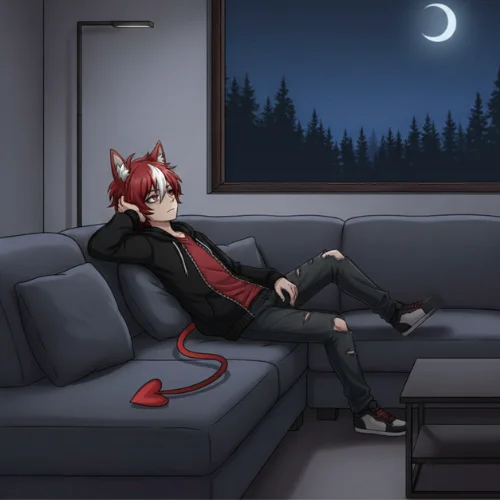
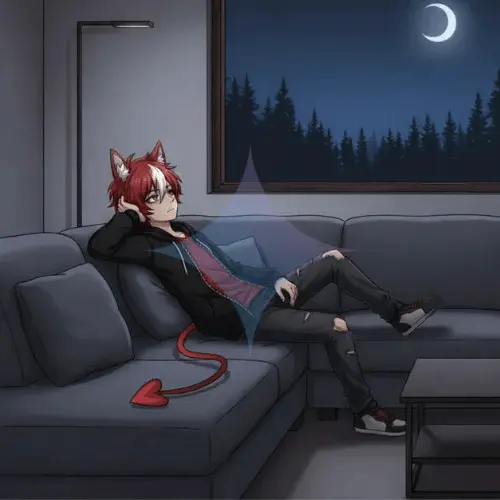
Actualización 2109pm21052026

Changed region(s): [[0.3, 0.42, 0.69, 0.69], [0.45, 0.3, 0.54, 0.39]]

diff --git a/upea-codex-versiones.html b/upea-codex-versiones.html
@@ -333,10 +333,6 @@
             box-shadow: var(--shadow-lg);
         }
 
-        .version-block.latest {
-            border-color: rgba(63,185,80,0.4);
-        }
-
         .version-header {
             background: linear-gradient(135deg, #1c2330, #161b22);
             padding: 18px 24px;
@@ -685,48 +681,46 @@
         <div class="version-list">
 
             <!-- ══════════════════════════════════════════ -->
-            <!--  VERSIÓN 1.1.0 (oculta temporalmente)      -->
+            <!--  VERSIÓN 1.1.0                             -->
             <!-- ══════════════════════════════════════════ -->
-            <div style="display: none;">
-                <div class="version-block latest">
-                    <div class="version-header">
-                        <span class="v-number">v1.1.0</span>
-                        <span class="badge badge-latest">Última versión</span>
-                        <span class="badge badge-stable">Estable</span>
-                        <span class="v-date">2026</span>
+            <div class="version-block latest">
+                <div class="version-header">
+                    <span class="v-number">v1.1.0</span>
+                    <span class="badge badge-latest">Última versión</span>
+                    <span class="badge badge-stable">Estable</span>
+                    <span class="v-date">21 de Mayo de 2026 (20:28 UTC+2)</span>
+                </div>
+                <div class="sha-section">
+                    <h4>🔒 Hashes SHA-256 — Verificación de integridad</h4>
+                    <div class="sha-grid">
+                        <div class="sha-row"><span class="sha-label">Windows (ES)</span><code class="sha-value">sha256:1234c9851bfe2811915ec71ed7da44571872d97a680479df98c9ece6a4d49c1a</code></div>
+                        <div class="sha-row"><span class="sha-label">Windows (EN)</span><code class="sha-value">sha256:d9660ff795bc988c6b38810a06792a985211d0016e6b7ecba7cfabcf2e3f56fd</code></div>
+                        <div class="sha-row"><span class="sha-label">Linux (ES)</span><code class="sha-value">sha256:a7a86146dbdd6615e8b257c395790f34e2b586ec815e3e97c093fbef98972304</code></div>
+                        <div class="sha-row"><span class="sha-label">Linux (EN)</span><code class="sha-value">sha256:666152352dd8aa8fceb13f693b74df4fb7adfffeaf3697a37639010c27cc152b</code></div>
+                        <div class="sha-row"><span class="sha-label">macOS (ES)</span><code class="sha-value">sha256:98bfcf8d75bf777dd7f3f02c111407d3c9da22952e1855fdddafea1aef575c27</code></div>
+                        <div class="sha-row"><span class="sha-label">macOS (EN)</span><code class="sha-value">sha256:d43eb93e7279bc6c05b0f07acafb60173c6e41f760b2dd28498357766c177ff1</code></div>
                     </div>
-                    <div class="sha-section">
-                        <h4>🔒 Hashes SHA-256 — Verificación de integridad</h4>
-                        <div class="sha-grid">
-                            <div class="sha-row"><span class="sha-label">Windows (ES)</span><code class="sha-value">PENDIENTE — Coloca aquí el SHA-256 del instalador Windows ES v1.1.0</code></div>
-                            <div class="sha-row"><span class="sha-label">Windows (EN)</span><code class="sha-value">PENDIENTE — Coloca aquí el SHA-256 del instalador Windows EN v1.1.0</code></div>
-                            <div class="sha-row"><span class="sha-label">Linux (ES)</span><code class="sha-value">PENDIENTE — Coloca aquí el SHA-256 del paquete Linux ES v1.1.0</code></div>
-                            <div class="sha-row"><span class="sha-label">Linux (EN)</span><code class="sha-value">PENDIENTE — Coloca aquí el SHA-256 del paquete Linux EN v1.1.0</code></div>
-                            <div class="sha-row"><span class="sha-label">macOS (ES)</span><code class="sha-value">PENDIENTE — Coloca aquí el SHA-256 del .dmg macOS ES v1.1.0</code></div>
-                            <div class="sha-row"><span class="sha-label">macOS (EN)</span><code class="sha-value">PENDIENTE — Coloca aquí el SHA-256 del .dmg macOS EN v1.1.0</code></div>
+                </div>
+                <div class="download-section">
+                    <h4>⬇ Descargas — v1.1.0</h4>
+                    <div class="lang-group">
+                        <div class="lang-label">Español (ES)</div>
+                        <div class="download-buttons">
+                            <a href="https://github.com/upea-corporation/upea-codex-download/releases/download/v1.1.0/UPEA.CODEX.Setup.1.1.0.-.ESPANOL.exe" download class="dl-btn win"><svg viewBox="0 0 24 24" fill="currentColor"><path d="M0 3.449L9.75 2.1v9.451H0m10.949-9.602L24 0v11.4H10.949M0 12.6h9.75v9.451L0 20.699M10.949 12.6H24V24l-13.051-1.801"/></svg>Windows</a>
+                            <a href="https://github.com/upea-corporation/upea-codex-download/releases/download/v1.1.0/UPEA.CODEX-1.1.0.-.ESPANOL.AppImage" download class="dl-btn linux"><svg viewBox="0 0 24 24" fill="currentColor"><path d="M12.504 0c-.155 0-.315.008-.48.021-4.226.333-3.105 4.807-3.17 6.298-.076 1.092-.3 1.953-1.05 3.02-.885 1.051-2.127 2.75-2.716 4.521-.278.832-.41 1.684-.287 2.489.121.779.454 1.493.85 2.153.396.659.85 1.266 1.34 1.818.232.264.467.527.695.792.5.582 1.084 1.162 1.657 1.713 1.15 1.126 1.677 2.214 1.65 3.219.02.523-.107 1.022-.4 1.499-.15.25-.35.47-.586.636-.19.136-.42.237-.68.279-.7.011-.137.02-.2.02-.41 0-.823-.082-1.19-.232-.37-.15-.7-.38-.964-.68-.51-.594-.72-1.451-.677-2.34.042-.894.286-1.884.658-2.875a19.9 19.9 0 0 1 1.23-2.76 21 21 0 0 0-1.44 2.66c-.427.98-.692 2.042-.716 3.11-.025 1.07.22 2.18.82 3.04.603.862 1.536 1.465 2.559 1.677.503.102 1.028.112 1.55.017.522-.095 1.046-.31 1.507-.66.463-.35.857-.83 1.12-1.396.262-.567.385-1.217.38-1.89.003-1.366-.618-2.688-1.827-3.866-.593-.584-1.189-1.172-1.7-1.76-.252-.293-.497-.59-.73-.89-.468-.6-.86-1.23-1.1-1.9-.243-.673-.3-1.358-.135-2.058.17-.7.545-1.346 1.05-1.888.505-.541 1.098-1.005 1.72-1.41.62-.406 1.273-.765 1.906-1.153.635-.39 1.25-.81 1.806-1.322.557-.512 1.057-1.117 1.384-1.86.328-.742.42-1.612.237-2.53-.184-.918-.63-1.86-1.34-2.668C15.507.806 14.036.108 12.504 0"/></svg>Linux</a>
+                            <a href="https://github.com/upea-corporation/upea-codex-download/releases/download/v1.1.0/UPEA.CODEX-1.1.0.-.ESPANOL.dmg" download class="dl-btn mac"><svg viewBox="0 0 24 24" fill="currentColor"><path d="M12.152 6.896c-.948 0-2.415-1.078-3.96-1.04-2.04.027-3.91 1.183-4.961 3.014-2.117 3.675-.546 9.103 1.519 12.09 1.013 1.454 2.208 3.09 3.792 3.039 1.52-.065 2.09-.987 3.935-.987 1.831 0 2.35.987 3.96.948 1.637-.026 2.676-1.48 3.676-2.948 1.156-1.688 1.636-3.325 1.662-3.415-.039-.013-3.182-1.221-3.22-4.857-.026-3.04 2.48-4.494 2.597-4.559-1.429-2.09-3.623-2.324-4.39-2.376-2-.156-3.675 1.09-4.61 1.09zM15.53 3.83c.843-1.012 1.4-2.427 1.245-3.83-1.207.052-2.662.805-3.532 1.818-.78.896-1.454 2.338-1.273 3.714 1.338.104 2.715-.688 3.559-1.701"/></svg>macOS</a>
                         </div>
                     </div>
-                    <div class="download-section">
-                        <h4>⬇ Descargas — v1.1.0</h4>
-                        <div class="lang-group">
-                            <div class="lang-label">Español (ES)</div>
-                            <div class="download-buttons">
-                                <a href="#" class="dl-btn win"><svg viewBox="0 0 24 24" fill="currentColor"><path d="M0 3.449L9.75 2.1v9.451H0m10.949-9.602L24 0v11.4H10.949M0 12.6h9.75v9.451L0 20.699M10.949 12.6H24V24l-13.051-1.801"/></svg>Windows</a>
-                                <a href="#" class="dl-btn linux"><svg viewBox="0 0 24 24" fill="currentColor"><path d="M12.504 0c-.155 0-.315.008-.48.021-4.226.333-3.105 4.807-3.17 6.298-.076 1.092-.3 1.953-1.05 3.02-.885 1.051-2.127 2.75-2.716 4.521-.278.832-.41 1.684-.287 2.489.121.779.454 1.493.85 2.153.396.659.85 1.266 1.34 1.818.232.264.467.527.695.792.5.582 1.084 1.162 1.657 1.713 1.15 1.126 1.677 2.214 1.65 3.219.02.523-.107 1.022-.4 1.499-.15.25-.35.47-.586.636-.19.136-.42.237-.68.279-.7.011-.137.02-.2.02-.41 0-.823-.082-1.19-.232-.37-.15-.7-.38-.964-.68-.51-.594-.72-1.451-.677-2.34.042-.894.286-1.884.658-2.875a19.9 19.9 0 0 1 1.23-2.76 21 21 0 0 0-1.44 2.66c-.427.98-.692 2.042-.716 3.11-.025 1.07.22 2.18.82 3.04.603.862 1.536 1.465 2.559 1.677.503.102 1.028.112 1.55.017.522-.095 1.046-.31 1.507-.66.463-.35.857-.83 1.12-1.396.262-.567.385-1.217.38-1.89.003-1.366-.618-2.688-1.827-3.866-.593-.584-1.189-1.172-1.7-1.76-.252-.293-.497-.59-.73-.89-.468-.6-.86-1.23-1.1-1.9-.243-.673-.3-1.358-.135-2.058.17-.7.545-1.346 1.05-1.888.505-.541 1.098-1.005 1.72-1.41.62-.406 1.273-.765 1.906-1.153.635-.39 1.25-.81 1.806-1.322.557-.512 1.057-1.117 1.384-1.86.328-.742.42-1.612.237-2.53-.184-.918-.63-1.86-1.34-2.668C15.507.806 14.036.108 12.504 0"/></svg>Linux</a>
-                                <a href="#" class="dl-btn mac"><svg viewBox="0 0 24 24" fill="currentColor"><path d="M12.152 6.896c-.948 0-2.415-1.078-3.96-1.04-2.04.027-3.91 1.183-4.961 3.014-2.117 3.675-.546 9.103 1.519 12.09 1.013 1.454 2.208 3.09 3.792 3.039 1.52-.065 2.09-.987 3.935-.987 1.831 0 2.35.987 3.96.948 1.637-.026 2.676-1.48 3.676-2.948 1.156-1.688 1.636-3.325 1.662-3.415-.039-.013-3.182-1.221-3.22-4.857-.026-3.04 2.48-4.494 2.597-4.559-1.429-2.09-3.623-2.324-4.39-2.376-2-.156-3.675 1.09-4.61 1.09zM15.53 3.83c.843-1.012 1.4-2.427 1.245-3.83-1.207.052-2.662.805-3.532 1.818-.78.896-1.454 2.338-1.273 3.714 1.338.104 2.715-.688 3.559-1.701"/></svg>macOS</a>
-                            </div>
-                        </div>
-                        <div class="lang-group">
-                            <div class="lang-label">English (EN)</div>
-                            <div class="download-buttons">
-                                <a href="#" class="dl-btn win"><svg viewBox="0 0 24 24" fill="currentColor"><path d="M0 3.449L9.75 2.1v9.451H0m10.949-9.602L24 0v11.4H10.949M0 12.6h9.75v9.451L0 20.699M10.949 12.6H24V24l-13.051-1.801"/></svg>Windows</a>
-                                <a href="#" class="dl-btn linux"><svg viewBox="0 0 24 24" fill="currentColor"><path d="M12.504 0c-.155 0-.315.008-.48.021-4.226.333-3.105 4.807-3.17 6.298-.076 1.092-.3 1.953-1.05 3.02-.885 1.051-2.127 2.75-2.716 4.521-.278.832-.41 1.684-.287 2.489.121.779.454 1.493.85 2.153.396.659.85 1.266 1.34 1.818.232.264.467.527.695.792.5.582 1.084 1.162 1.657 1.713 1.15 1.126 1.677 2.214 1.65 3.219.02.523-.107 1.022-.4 1.499-.15.25-.35.47-.586.636-.19.136-.42.237-.68.279-.7.011-.137.02-.2.02-.41 0-.823-.082-1.19-.232-.37-.15-.7-.38-.964-.68-.51-.594-.72-1.451-.677-2.34.042-.894.286-1.884.658-2.875a19.9 19.9 0 0 1 1.23-2.76 21 21 0 0 0-1.44 2.66c-.427.98-.692 2.042-.716 3.11-.025 1.07.22 2.18.82 3.04.603.862 1.536 1.465 2.559 1.677.503.102 1.028.112 1.55.017.522-.095 1.046-.31 1.507-.66.463-.35.857-.83 1.12-1.396.262-.567.385-1.217.38-1.89.003-1.366-.618-2.688-1.827-3.866-.593-.584-1.189-1.172-1.7-1.76-.252-.293-.497-.59-.73-.89-.468-.6-.86-1.23-1.1-1.9-.243-.673-.3-1.358-.135-2.058.17-.7.545-1.346 1.05-1.888.505-.541 1.098-1.005 1.72-1.41.62-.406 1.273-.765 1.906-1.153.635-.39 1.25-.81 1.806-1.322.557-.512 1.057-1.117 1.384-1.86.328-.742.42-1.612.237-2.53-.184-.918-.63-1.86-1.34-2.668C15.507.806 14.036.108 12.504 0"/></svg>Linux</a>
-                                <a href="#" class="dl-btn mac"><svg viewBox="0 0 24 24" fill="currentColor"><path d="M12.152 6.896c-.948 0-2.415-1.078-3.96-1.04-2.04.027-3.91 1.183-4.961 3.014-2.117 3.675-.546 9.103 1.519 12.09 1.013 1.454 2.208 3.09 3.792 3.039 1.52-.065 2.09-.987 3.935-.987 1.831 0 2.35.987 3.96.948 1.637-.026 2.676-1.48 3.676-2.948 1.156-1.688 1.636-3.325 1.662-3.415-.039-.013-3.182-1.221-3.22-4.857-.026-3.04 2.48-4.494 2.597-4.559-1.429-2.09-3.623-2.324-4.39-2.376-2-.156-3.675 1.09-4.61 1.09zM15.53 3.83c.843-1.012 1.4-2.427 1.245-3.83-1.207.052-2.662.805-3.532 1.818-.78.896-1.454 2.338-1.273 3.714 1.338.104 2.715-.688 3.559-1.701"/></svg>macOS</a>
-                            </div>
+                    <div class="lang-group">
+                        <div class="lang-label">English (EN)</div>
+                        <div class="download-buttons">
+                            <a href="https://github.com/upea-corporation/upea-codex-download/releases/download/v1.1.0/UPEA.CODEX.Setup.1.1.0.-.ENGLISH.exe" download class="dl-btn win"><svg viewBox="0 0 24 24" fill="currentColor"><path d="M0 3.449L9.75 2.1v9.451H0m10.949-9.602L24 0v11.4H10.949M0 12.6h9.75v9.451L0 20.699M10.949 12.6H24V24l-13.051-1.801"/></svg>Windows</a>
+                            <a href="https://github.com/upea-corporation/upea-codex-download/releases/download/v1.1.0/UPEA.CODEX-1.1.0.-.ENGLISH.AppImage" download class="dl-btn linux"><svg viewBox="0 0 24 24" fill="currentColor"><path d="M12.504 0c-.155 0-.315.008-.48.021-4.226.333-3.105 4.807-3.17 6.298-.076 1.092-.3 1.953-1.05 3.02-.885 1.051-2.127 2.75-2.716 4.521-.278.832-.41 1.684-.287 2.489.121.779.454 1.493.85 2.153.396.659.85 1.266 1.34 1.818.232.264.467.527.695.792.5.582 1.084 1.162 1.657 1.713 1.15 1.126 1.677 2.214 1.65 3.219.02.523-.107 1.022-.4 1.499-.15.25-.35.47-.586.636-.19.136-.42.237-.68.279-.7.011-.137.02-.2.02-.41 0-.823-.082-1.19-.232-.37-.15-.7-.38-.964-.68-.51-.594-.72-1.451-.677-2.34.042-.894.286-1.884.658-2.875a19.9 19.9 0 0 1 1.23-2.76 21 21 0 0 0-1.44 2.66c-.427.98-.692 2.042-.716 3.11-.025 1.07.22 2.18.82 3.04.603.862 1.536 1.465 2.559 1.677.503.102 1.028.112 1.55.017.522-.095 1.046-.31 1.507-.66.463-.35.857-.83 1.12-1.396.262-.567.385-1.217.38-1.89.003-1.366-.618-2.688-1.827-3.866-.593-.584-1.189-1.172-1.7-1.76-.252-.293-.497-.59-.73-.89-.468-.6-.86-1.23-1.1-1.9-.243-.673-.3-1.358-.135-2.058.17-.7.545-1.346 1.05-1.888.505-.541 1.098-1.005 1.72-1.41.62-.406 1.273-.765 1.906-1.153.635-.39 1.25-.81 1.806-1.322.557-.512 1.057-1.117 1.384-1.86.328-.742.42-1.612.237-2.53-.184-.918-.63-1.86-1.34-2.668C15.507.806 14.036.108 12.504 0"/></svg>Linux</a>
+                            <a href="https://github.com/upea-corporation/upea-codex-download/releases/download/v1.1.0/UPEA.CODEX-1.1.0.-.ENGLISH.dmg" download class="dl-btn mac"><svg viewBox="0 0 24 24" fill="currentColor"><path d="M12.152 6.896c-.948 0-2.415-1.078-3.96-1.04-2.04.027-3.91 1.183-4.961 3.014-2.117 3.675-.546 9.103 1.519 12.09 1.013 1.454 2.208 3.09 3.792 3.039 1.52-.065 2.09-.987 3.935-.987 1.831 0 2.35.987 3.96.948 1.637-.026 2.676-1.48 3.676-2.948 1.156-1.688 1.636-3.325 1.662-3.415-.039-.013-3.182-1.221-3.22-4.857-.026-3.04 2.48-4.494 2.597-4.559-1.429-2.09-3.623-2.324-4.39-2.376-2-.156-3.675 1.09-4.61 1.09zM15.53 3.83c.843-1.012 1.4-2.427 1.245-3.83-1.207.052-2.662.805-3.532 1.818-.78.896-1.454 2.338-1.273 3.714 1.338.104 2.715-.688 3.559-1.701"/></svg>macOS</a>
                         </div>
                     </div>
                 </div>
-            </div><!-- /v1.1.0 oculta -->
+            </div> <!-- /v1.1.0 -->
 
             <!-- ══════════════════════════════════════════ -->
             <!--  VERSIÓN 1.0.0                             -->
@@ -734,7 +728,6 @@
             <div class="version-block">
                 <div class="version-header">
                     <span class="v-number">v1.0.0</span>
-                    <span class="badge badge-latest">Última versión</span>
                     <span class="badge badge-stable">Estable</span>
                     <span class="v-date">28 de Abril de 2026 (14:34 UTC+2)</span>
                 </div>
@@ -840,7 +833,5 @@
             }
         })();
     </script>
-    <!-- FontAwesome para iconos -->
-    <link rel="stylesheet" href="https://cdnjs.cloudflare.com/ajax/libs/font-awesome/6.0.0-beta3/css/all.min.css">
 </body>
 </html>

diff --git a/EN/upea-codex-versions.html b/EN/upea-codex-versions.html
@@ -333,10 +333,6 @@
             box-shadow: var(--shadow-lg);
         }
 
-        .version-block.latest {
-            border-color: rgba(63,185,80,0.4);
-        }
-
         .version-header {
             background: linear-gradient(135deg, #1c2330, #161b22);
             padding: 18px 24px;
@@ -685,47 +681,46 @@
         <div class="version-list">
 
             <!-- ══════════════════════════════════════════ -->
-            <!--  VERSION 1.1.0 (temporarily hidden)        -->
+            <!--  VERSIÓN 1.1.0                             -->
             <!-- ══════════════════════════════════════════ -->
-            <div style="display: none;">
-                <div class="version-block latest">
-                    <div class="version-header">
-                        <span class="v-number">v1.1.0</span>
-                        <span class="badge badge-stable">Stable</span>
-                        <span class="v-date">2026</span>
+            <div class="version-block latest">
+                <div class="version-header">
+                    <span class="v-number">v1.1.0</span>
+                    <span class="badge badge-latest">Latest version</span>
+                    <span class="badge badge-stable">Stable</span>
+                    <span class="v-date">May 21, 2026 (20:28 UTC+2)</span>
+                </div>
+                <div class="sha-section">
+                    <h4>🔒 Hashes SHA-256 — Integrity verification</h4>
+                    <div class="sha-grid">
+                        <div class="sha-row"><span class="sha-label">Windows (ES)</span><code class="sha-value">sha256:1234c9851bfe2811915ec71ed7da44571872d97a680479df98c9ece6a4d49c1a</code></div>
+                        <div class="sha-row"><span class="sha-label">Windows (EN)</span><code class="sha-value">sha256:d9660ff795bc988c6b38810a06792a985211d0016e6b7ecba7cfabcf2e3f56fd</code></div>
+                        <div class="sha-row"><span class="sha-label">Linux (ES)</span><code class="sha-value">sha256:a7a86146dbdd6615e8b257c395790f34e2b586ec815e3e97c093fbef98972304</code></div>
+                        <div class="sha-row"><span class="sha-label">Linux (EN)</span><code class="sha-value">sha256:666152352dd8aa8fceb13f693b74df4fb7adfffeaf3697a37639010c27cc152b</code></div>
+                        <div class="sha-row"><span class="sha-label">macOS (ES)</span><code class="sha-value">sha256:98bfcf8d75bf777dd7f3f02c111407d3c9da22952e1855fdddafea1aef575c27</code></div>
+                        <div class="sha-row"><span class="sha-label">macOS (EN)</span><code class="sha-value">sha256:d43eb93e7279bc6c05b0f07acafb60173c6e41f760b2dd28498357766c177ff1</code></div>
                     </div>
-                    <div class="sha-section">
-                        <h4>🔒 SHA-256 Hashes — Integrity verification</h4>
-                        <div class="sha-grid">
-                            <div class="sha-row"><span class="sha-label">Windows (ES)</span><code class="sha-value">PENDING — Place the SHA-256 of the Windows ES installer v1.1.0 here</code></div>
-                            <div class="sha-row"><span class="sha-label">Windows (EN)</span><code class="sha-value">PENDING — Place the SHA-256 of the Windows EN installer v1.1.0 here</code></div>
-                            <div class="sha-row"><span class="sha-label">Linux (ES)</span><code class="sha-value">PENDING — Place the SHA-256 of the Linux ES package v1.1.0 here</code></div>
-                            <div class="sha-row"><span class="sha-label">Linux (EN)</span><code class="sha-value">PENDING — Place the SHA-256 of the Linux EN package v1.1.0 here</code></div>
-                            <div class="sha-row"><span class="sha-label">macOS (ES)</span><code class="sha-value">PENDING — Place the SHA-256 of the macOS ES .dmg v1.1.0 here</code></div>
-                            <div class="sha-row"><span class="sha-label">macOS (EN)</span><code class="sha-value">PENDING — Place the SHA-256 of the macOS EN .dmg v1.1.0 here</code></div>
+                </div>
+                <div class="download-section">
+                    <h4>⬇ Descargas — v1.1.0</h4>
+                    <div class="lang-group">
+                        <div class="lang-label">Español (ES)</div>
+                        <div class="download-buttons">
+                            <a href="https://github.com/upea-corporation/upea-codex-download/releases/download/v1.1.0/UPEA.CODEX.Setup.1.1.0.-.ESPANOL.exe" download class="dl-btn win"><svg viewBox="0 0 24 24" fill="currentColor"><path d="M0 3.449L9.75 2.1v9.451H0m10.949-9.602L24 0v11.4H10.949M0 12.6h9.75v9.451L0 20.699M10.949 12.6H24V24l-13.051-1.801"/></svg>Windows</a>
+                            <a href="https://github.com/upea-corporation/upea-codex-download/releases/download/v1.1.0/UPEA.CODEX-1.1.0.-.ESPANOL.AppImage" download class="dl-btn linux"><svg viewBox="0 0 24 24" fill="currentColor"><path d="M12.504 0c-.155 0-.315.008-.48.021-4.226.333-3.105 4.807-3.17 6.298-.076 1.092-.3 1.953-1.05 3.02-.885 1.051-2.127 2.75-2.716 4.521-.278.832-.41 1.684-.287 2.489.121.779.454 1.493.85 2.153.396.659.85 1.266 1.34 1.818.232.264.467.527.695.792.5.582 1.084 1.162 1.657 1.713 1.15 1.126 1.677 2.214 1.65 3.219.02.523-.107 1.022-.4 1.499-.15.25-.35.47-.586.636-.19.136-.42.237-.68.279-.7.011-.137.02-.2.02-.41 0-.823-.082-1.19-.232-.37-.15-.7-.38-.964-.68-.51-.594-.72-1.451-.677-2.34.042-.894.286-1.884.658-2.875a19.9 19.9 0 0 1 1.23-2.76 21 21 0 0 0-1.44 2.66c-.427.98-.692 2.042-.716 3.11-.025 1.07.22 2.18.82 3.04.603.862 1.536 1.465 2.559 1.677.503.102 1.028.112 1.55.017.522-.095 1.046-.31 1.507-.66.463-.35.857-.83 1.12-1.396.262-.567.385-1.217.38-1.89.003-1.366-.618-2.688-1.827-3.866-.593-.584-1.189-1.172-1.7-1.76-.252-.293-.497-.59-.73-.89-.468-.6-.86-1.23-1.1-1.9-.243-.673-.3-1.358-.135-2.058.17-.7.545-1.346 1.05-1.888.505-.541 1.098-1.005 1.72-1.41.62-.406 1.273-.765 1.906-1.153.635-.39 1.25-.81 1.806-1.322.557-.512 1.057-1.117 1.384-1.86.328-.742.42-1.612.237-2.53-.184-.918-.63-1.86-1.34-2.668C15.507.806 14.036.108 12.504 0"/></svg>Linux</a>
+                            <a href="https://github.com/upea-corporation/upea-codex-download/releases/download/v1.1.0/UPEA.CODEX-1.1.0.-.ESPANOL.dmg" download class="dl-btn mac"><svg viewBox="0 0 24 24" fill="currentColor"><path d="M12.152 6.896c-.948 0-2.415-1.078-3.96-1.04-2.04.027-3.91 1.183-4.961 3.014-2.117 3.675-.546 9.103 1.519 12.09 1.013 1.454 2.208 3.09 3.792 3.039 1.52-.065 2.09-.987 3.935-.987 1.831 0 2.35.987 3.96.948 1.637-.026 2.676-1.48 3.676-2.948 1.156-1.688 1.636-3.325 1.662-3.415-.039-.013-3.182-1.221-3.22-4.857-.026-3.04 2.48-4.494 2.597-4.559-1.429-2.09-3.623-2.324-4.39-2.376-2-.156-3.675 1.09-4.61 1.09zM15.53 3.83c.843-1.012 1.4-2.427 1.245-3.83-1.207.052-2.662.805-3.532 1.818-.78.896-1.454 2.338-1.273 3.714 1.338.104 2.715-.688 3.559-1.701"/></svg>macOS</a>
                         </div>
                     </div>
-                    <div class="download-section">
-                        <h4>⬇ Downloads — v1.1.0</h4>
-                        <div class="lang-group">
-                            <div class="lang-label">Español (ES)</div>
-                            <div class="download-buttons">
-                                <a href="#" class="dl-btn win"><svg viewBox="0 0 24 24" fill="currentColor"><path d="M0 3.449L9.75 2.1v9.451H0m10.949-9.602L24 0v11.4H10.949M0 12.6h9.75v9.451L0 20.699M10.949 12.6H24V24l-13.051-1.801"/></svg>Windows</a>
-                                <a href="#" class="dl-btn linux"><svg viewBox="0 0 24 24" fill="currentColor"><path d="M12.504 0c-.155 0-.315.008-.48.021-4.226.333-3.105 4.807-3.17 6.298-.076 1.092-.3 1.953-1.05 3.02-.885 1.051-2.127 2.75-2.716 4.521-.278.832-.41 1.684-.287 2.489.121.779.454 1.493.85 2.153.396.659.85 1.266 1.34 1.818.232.264.467.527.695.792.5.582 1.084 1.162 1.657 1.713 1.15 1.126 1.677 2.214 1.65 3.219.02.523-.107 1.022-.4 1.499-.15.25-.35.47-.586.636-.19.136-.42.237-.68.279-.7.011-.137.02-.2.02-.41 0-.823-.082-1.19-.232-.37-.15-.7-.38-.964-.68-.51-.594-.72-1.451-.677-2.34.042-.894.286-1.884.658-2.875a19.9 19.9 0 0 1 1.23-2.76 21 21 0 0 0-1.44 2.66c-.427.98-.692 2.042-.716 3.11-.025 1.07.22 2.18.82 3.04.603.862 1.536 1.465 2.559 1.677.503.102 1.028.112 1.55.017.522-.095 1.046-.31 1.507-.66.463-.35.857-.83 1.12-1.396.262-.567.385-1.217.38-1.89.003-1.366-.618-2.688-1.827-3.866-.593-.584-1.189-1.172-1.7-1.76-.252-.293-.497-.59-.73-.89-.468-.6-.86-1.23-1.1-1.9-.243-.673-.3-1.358-.135-2.058.17-.7.545-1.346 1.05-1.888.505-.541 1.098-1.005 1.72-1.41.62-.406 1.273-.765 1.906-1.153.635-.39 1.25-.81 1.806-1.322.557-.512 1.057-1.117 1.384-1.86.328-.742.42-1.612.237-2.53-.184-.918-.63-1.86-1.34-2.668C15.507.806 14.036.108 12.504 0"/></svg>Linux</a>
-                                <a href="#" class="dl-btn mac"><svg viewBox="0 0 24 24" fill="currentColor"><path d="M12.152 6.896c-.948 0-2.415-1.078-3.96-1.04-2.04.027-3.91 1.183-4.961 3.014-2.117 3.675-.546 9.103 1.519 12.09 1.013 1.454 2.208 3.09 3.792 3.039 1.52-.065 2.09-.987 3.935-.987 1.831 0 2.35.987 3.96.948 1.637-.026 2.676-1.48 3.676-2.948 1.156-1.688 1.636-3.325 1.662-3.415-.039-.013-3.182-1.221-3.22-4.857-.026-3.04 2.48-4.494 2.597-4.559-1.429-2.09-3.623-2.324-4.39-2.376-2-.156-3.675 1.09-4.61 1.09zM15.53 3.83c.843-1.012 1.4-2.427 1.245-3.83-1.207.052-2.662.805-3.532 1.818-.78.896-1.454 2.338-1.273 3.714 1.338.104 2.715-.688 3.559-1.701"/></svg>macOS</a>
-                            </div>
-                        </div>
-                        <div class="lang-group">
-                            <div class="lang-label">English (EN)</div>
-                            <div class="download-buttons">
-                                <a href="#" class="dl-btn win"><svg viewBox="0 0 24 24" fill="currentColor"><path d="M0 3.449L9.75 2.1v9.451H0m10.949-9.602L24 0v11.4H10.949M0 12.6h9.75v9.451L0 20.699M10.949 12.6H24V24l-13.051-1.801"/></svg>Windows</a>
-                                <a href="#" class="dl-btn linux"><svg viewBox="0 0 24 24" fill="currentColor"><path d="M12.504 0c-.155 0-.315.008-.48.021-4.226.333-3.105 4.807-3.17 6.298-.076 1.092-.3 1.953-1.05 3.02-.885 1.051-2.127 2.75-2.716 4.521-.278.832-.41 1.684-.287 2.489.121.779.454 1.493.85 2.153.396.659.85 1.266 1.34 1.818.232.264.467.527.695.792.5.582 1.084 1.162 1.657 1.713 1.15 1.126 1.677 2.214 1.65 3.219.02.523-.107 1.022-.4 1.499-.15.25-.35.47-.586.636-.19.136-.42.237-.68.279-.7.011-.137.02-.2.02-.41 0-.823-.082-1.19-.232-.37-.15-.7-.38-.964-.68-.51-.594-.72-1.451-.677-2.34.042-.894.286-1.884.658-2.875a19.9 19.9 0 0 1 1.23-2.76 21 21 0 0 0-1.44 2.66c-.427.98-.692 2.042-.716 3.11-.025 1.07.22 2.18.82 3.04.603.862 1.536 1.465 2.559 1.677.503.102 1.028.112 1.55.017.522-.095 1.046-.31 1.507-.66.463-.35.857-.83 1.12-1.396.262-.567.385-1.217.38-1.89.003-1.366-.618-2.688-1.827-3.866-.593-.584-1.189-1.172-1.7-1.76-.252-.293-.497-.59-.73-.89-.468-.6-.86-1.23-1.1-1.9-.243-.673-.3-1.358-.135-2.058.17-.7.545-1.346 1.05-1.888.505-.541 1.098-1.005 1.72-1.41.62-.406 1.273-.765 1.906-1.153.635-.39 1.25-.81 1.806-1.322.557-.512 1.057-1.117 1.384-1.86.328-.742.42-1.612.237-2.53-.184-.918-.63-1.86-1.34-2.668C15.507.806 14.036.108 12.504 0"/></svg>Linux</a>
-                                <a href="#" class="dl-btn mac"><svg viewBox="0 0 24 24" fill="currentColor"><path d="M12.152 6.896c-.948 0-2.415-1.078-3.96-1.04-2.04.027-3.91 1.183-4.961 3.014-2.117 3.675-.546 9.103 1.519 12.09 1.013 1.454 2.208 3.09 3.792 3.039 1.52-.065 2.09-.987 3.935-.987 1.831 0 2.35.987 3.96.948 1.637-.026 2.676-1.48 3.676-2.948 1.156-1.688 1.636-3.325 1.662-3.415-.039-.013-3.182-1.221-3.22-4.857-.026-3.04 2.48-4.494 2.597-4.559-1.429-2.09-3.623-2.324-4.39-2.376-2-.156-3.675 1.09-4.61 1.09zM15.53 3.83c.843-1.012 1.4-2.427 1.245-3.83-1.207.052-2.662.805-3.532 1.818-.78.896-1.454 2.338-1.273 3.714 1.338.104 2.715-.688 3.559-1.701"/></svg>macOS</a>
-                            </div>
+                    <div class="lang-group">
+                        <div class="lang-label">English (EN)</div>
+                        <div class="download-buttons">
+                            <a href="https://github.com/upea-corporation/upea-codex-download/releases/download/v1.1.0/UPEA.CODEX.Setup.1.1.0.-.ENGLISH.exe" download class="dl-btn win"><svg viewBox="0 0 24 24" fill="currentColor"><path d="M0 3.449L9.75 2.1v9.451H0m10.949-9.602L24 0v11.4H10.949M0 12.6h9.75v9.451L0 20.699M10.949 12.6H24V24l-13.051-1.801"/></svg>Windows</a>
+                            <a href="https://github.com/upea-corporation/upea-codex-download/releases/download/v1.1.0/UPEA.CODEX-1.1.0.-.ENGLISH.AppImage" download class="dl-btn linux"><svg viewBox="0 0 24 24" fill="currentColor"><path d="M12.504 0c-.155 0-.315.008-.48.021-4.226.333-3.105 4.807-3.17 6.298-.076 1.092-.3 1.953-1.05 3.02-.885 1.051-2.127 2.75-2.716 4.521-.278.832-.41 1.684-.287 2.489.121.779.454 1.493.85 2.153.396.659.85 1.266 1.34 1.818.232.264.467.527.695.792.5.582 1.084 1.162 1.657 1.713 1.15 1.126 1.677 2.214 1.65 3.219.02.523-.107 1.022-.4 1.499-.15.25-.35.47-.586.636-.19.136-.42.237-.68.279-.7.011-.137.02-.2.02-.41 0-.823-.082-1.19-.232-.37-.15-.7-.38-.964-.68-.51-.594-.72-1.451-.677-2.34.042-.894.286-1.884.658-2.875a19.9 19.9 0 0 1 1.23-2.76 21 21 0 0 0-1.44 2.66c-.427.98-.692 2.042-.716 3.11-.025 1.07.22 2.18.82 3.04.603.862 1.536 1.465 2.559 1.677.503.102 1.028.112 1.55.017.522-.095 1.046-.31 1.507-.66.463-.35.857-.83 1.12-1.396.262-.567.385-1.217.38-1.89.003-1.366-.618-2.688-1.827-3.866-.593-.584-1.189-1.172-1.7-1.76-.252-.293-.497-.59-.73-.89-.468-.6-.86-1.23-1.1-1.9-.243-.673-.3-1.358-.135-2.058.17-.7.545-1.346 1.05-1.888.505-.541 1.098-1.005 1.72-1.41.62-.406 1.273-.765 1.906-1.153.635-.39 1.25-.81 1.806-1.322.557-.512 1.057-1.117 1.384-1.86.328-.742.42-1.612.237-2.53-.184-.918-.63-1.86-1.34-2.668C15.507.806 14.036.108 12.504 0"/></svg>Linux</a>
+                            <a href="https://github.com/upea-corporation/upea-codex-download/releases/download/v1.1.0/UPEA.CODEX-1.1.0.-.ENGLISH.dmg" download class="dl-btn mac"><svg viewBox="0 0 24 24" fill="currentColor"><path d="M12.152 6.896c-.948 0-2.415-1.078-3.96-1.04-2.04.027-3.91 1.183-4.961 3.014-2.117 3.675-.546 9.103 1.519 12.09 1.013 1.454 2.208 3.09 3.792 3.039 1.52-.065 2.09-.987 3.935-.987 1.831 0 2.35.987 3.96.948 1.637-.026 2.676-1.48 3.676-2.948 1.156-1.688 1.636-3.325 1.662-3.415-.039-.013-3.182-1.221-3.22-4.857-.026-3.04 2.48-4.494 2.597-4.559-1.429-2.09-3.623-2.324-4.39-2.376-2-.156-3.675 1.09-4.61 1.09zM15.53 3.83c.843-1.012 1.4-2.427 1.245-3.83-1.207.052-2.662.805-3.532 1.818-.78.896-1.454 2.338-1.273 3.714 1.338.104 2.715-.688 3.559-1.701"/></svg>macOS</a>
                         </div>
                     </div>
                 </div>
-            </div><!-- /v1.1.0 hidden -->
+            </div> <!-- /v1.1.0 -->
 
             <!-- ══════════════════════════════════════════ -->
             <!--  VERSION 1.0.0                             -->
@@ -733,7 +728,6 @@
             <div class="version-block">
                 <div class="version-header">
                     <span class="v-number">v1.0.0</span>
-                    <span class="badge badge-latest">Latest version</span>
                     <span class="badge badge-stable">Stable</span>
                     <span class="v-date">April 28, 2026 (14:34 UTC+2)</span>
                 </div>
@@ -839,7 +833,5 @@
             }
         })();
     </script>
-    <!-- FontAwesome for icons -->
-    <link rel="stylesheet" href="https://cdnjs.cloudflare.com/ajax/libs/font-awesome/6.0.0-beta3/css/all.min.css">
 </body>
 </html>

diff --git a/EN/scripts/updates-data.js b/EN/scripts/updates-data.js
@@ -743,5 +743,14 @@ window.updatesData = [
           "We have updated the <a href='access.html' class='main-link'>access</a> page to include the download link for the new UPEA Codex tool.",
           "We have renamed the UPEA Codex website as <strong><u>UPEA Codex Classic</u></strong>, which will remain active only as a historical archive."
         ],
+      },
+      {
+        isoDate: "2026-05-21",
+        time: "20:44",
+        items: [
+          "<strong><u>UPEA Codex</u></strong> application version 1.1.0 is now available.",
+          "<strong><u>UPEA Codex</u></strong> download errors have been fixed.",
+          "A watermark was added according to the AI used to generate the image of specific ZAE entities."
+        ],
       }
     ];

diff --git a/scripts/updates-data.js b/scripts/updates-data.js
@@ -743,6 +743,15 @@ window.updatesData = [
           "Actualizamos la página de <a href='acceso.html' class='main-link'>acceso</a> para incluir el enlace de descarga de la nueva herramienta UPEA Codex.",
           "Renombramos la web de UPEA Codex como <strong><u>UPEA Codex Classic</u></strong>, la cual permanecerá activa únicamente como archivo histórico."
         ],
+      },
+      {
+        isoDate: "2026-05-21",
+        time: "20:44",
+        items: [
+          "Disponible la versión 1.1.0 de la aplicación UPEA Codex.",
+          "Se han corregido los errores de descarga de UPEA Codex.",
+          "Se añadió marca de agua según la IA usada para generar la imagen de las entidades EAZ específicas."
+        ],
       }
     ];
 